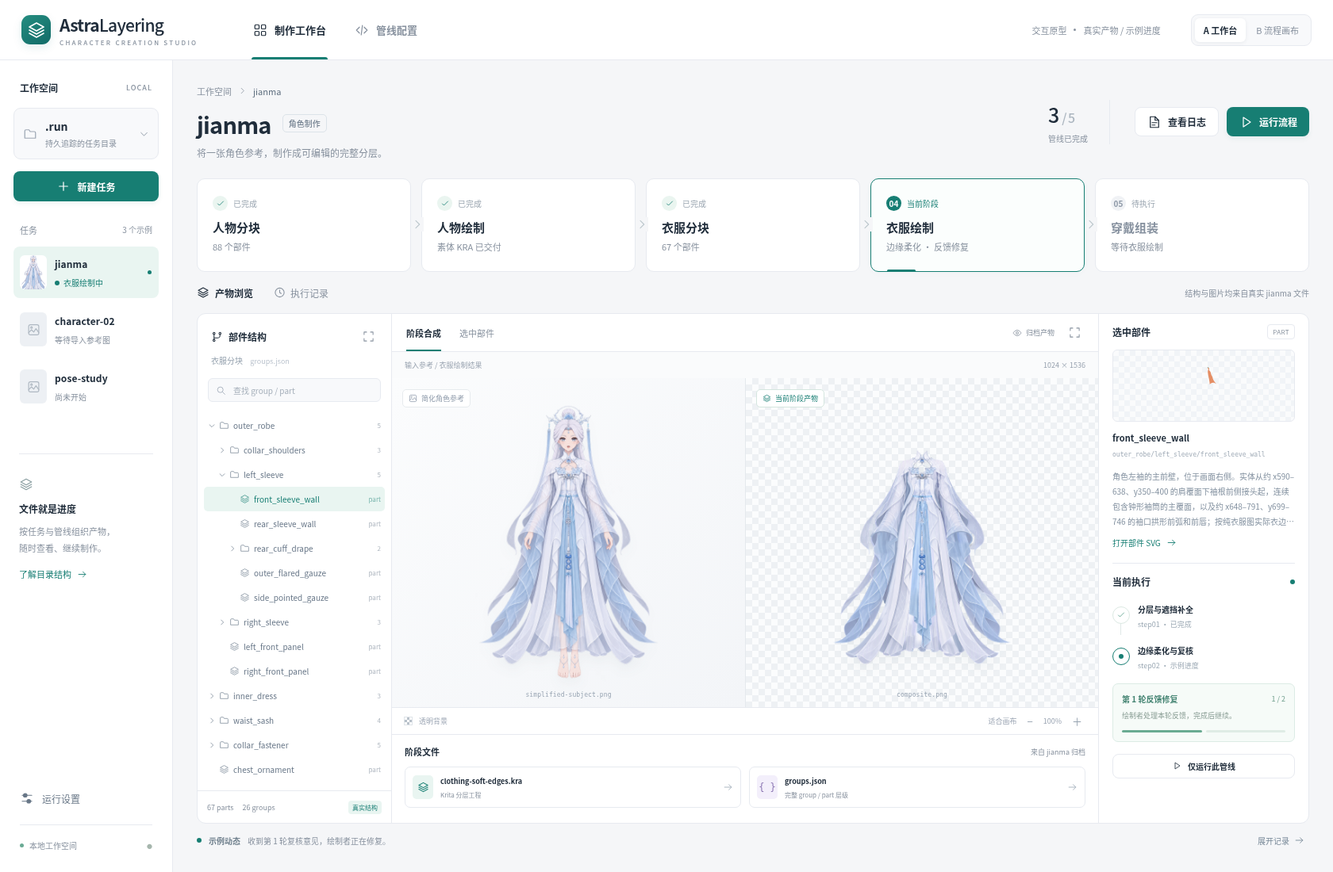
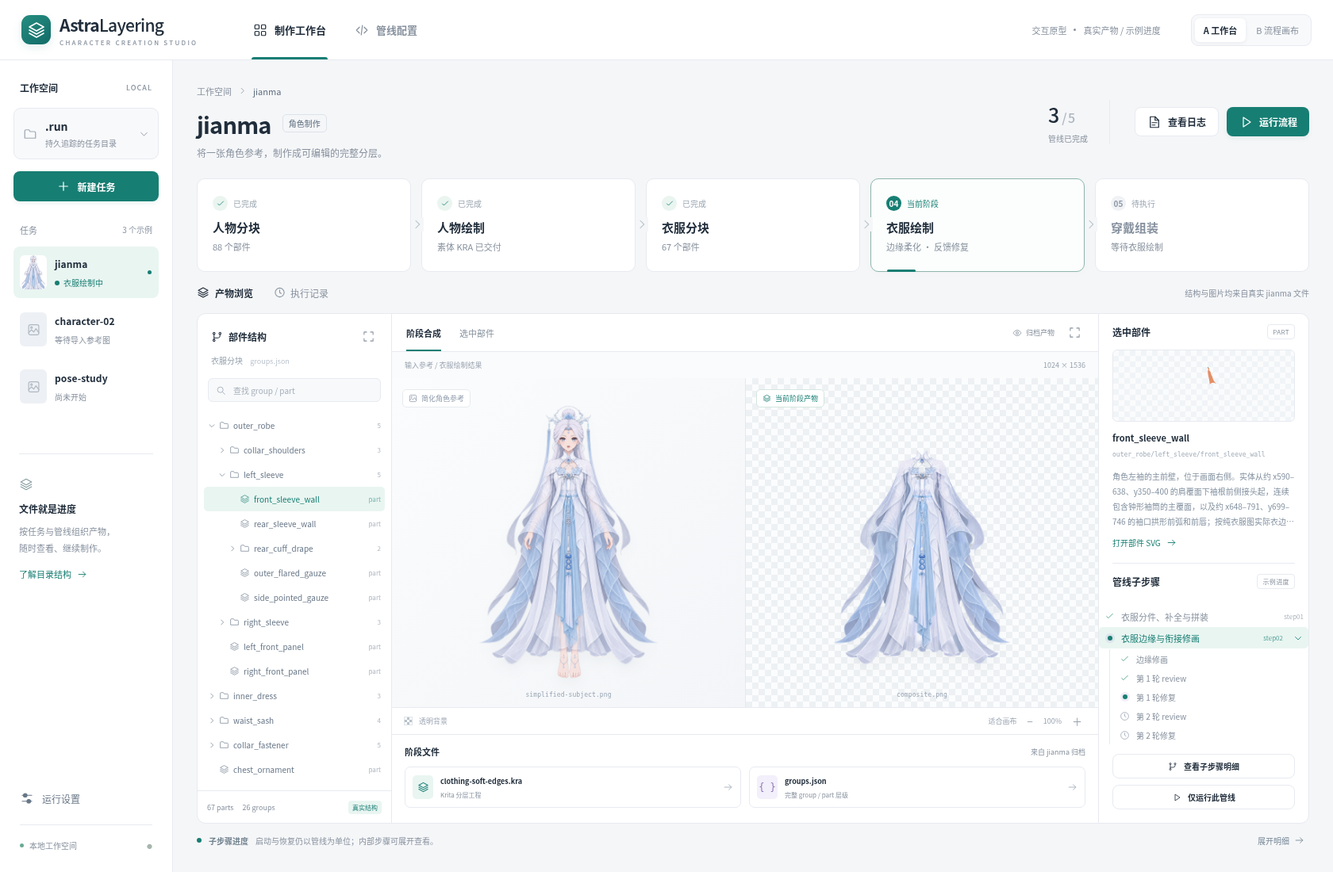
Expand pipeline progress into substeps and per-layer part views

Changed region(s): [[0.8357, 0.6491, 0.9595, 0.9273], [0.1548, 0.9582, 0.3095, 0.9891]]

diff --git a/web/app.js b/web/app.js
@@ -1,3 +1,5 @@
+import { groupPhases, pipelineSteps, groupLayers } from './progress.js';
+
 const icons = {
  layers:'<path d="m12 3 9 5-9 5-9-5 9-5Z"/><path d="m3 12 9 5 9-5M3 16l9 5 9-5"/>',
  grid:'<rect x="3" y="3" width="7" height="7" rx="1.5"/><rect x="14" y="3" width="7" height="7" rx="1.5"/><rect x="3" y="14" width="7" height="7" rx="1.5"/><rect x="14" y="14" width="7" height="7" rx="1.5"/>',
@@ -27,6 +29,8 @@ const data = await get('/api/demo');
 const state = {
  layout:new URLSearchParams(location.search).get('layout')||'workbench', page:new URLSearchParams(location.search).get('page')||'project',
  stage:3, group:'outer_robe/left_sleeve/front_sleeve_wall', expanded:new Set(['outer_robe','outer_robe/left_sleeve']),
+ showSteps:true, selectedStep:'step02', depth:0,
+ openSteps:new Set(['0:layers','1:step02','2:layers','3:step02']),
  preview:'composition', directory:localStorage.getItem('astra-demo-directory')||data.directory,
  ref:'worktree', file:'shared/tools/update_occlusion/description.md', diff:false, configFilter:'', uploaded:null,
 };
@@ -37,6 +41,11 @@ const stages = [
  {name:'衣服绘制',id:'clothing-raster-layering',short:'CLOTHING RASTER',result:'边缘柔化 · 反馈修复',status:'running',image:'/images/clothing.png',file:'clothing-raster-layering/step02/clothing-soft-edges.kra'},
  {name:'穿戴组装',id:'character-assembly',short:'ASSEMBLY',result:'等待衣服绘制',status:'pending',image:'/images/assembled.png',file:'character-assembly/step01/character-assembled.kra'},
 ];
+const requestedStage = Number(new URLSearchParams(location.search).get('stage') ?? 3);
+if (Number.isInteger(requestedStage) && requestedStage >= 0 && requestedStage < stages.length) {
+ state.stage = requestedStage;
+ state.selectedStep = requestedStage === 0 || requestedStage === 2 ? 'layers' : requestedStage === 4 ? 'step01' : 'step02';
+}
 const artifact = path => '/artifact/'+path.split('/').map(encodeURIComponent).join('/');
 const sourceTree = () => state.stage<2?data.character.groups:data.clothing.groups;
 function flat(nodes) { return nodes.flatMap(node=>[node,...flat(node.groups||[])]); }
@@ -84,22 +93,67 @@ function previewPane() {
  <div class="canvas-footer"><span><span class="checker-swatch"></span>透明背景</span><span>适合画布 <b>−</b><span>100%</span><b>＋</b></span></div>
  <div class="artifact-tray"><div class="tray-heading"><b>阶段文件</b><small>来自 jianma 归档</small></div><div class="file-cards"><a href="${artifact(stage.file)}" target="_blank"><span class="file-icon">${icon(stage.file.endsWith('.kra')?'layers':'code')}</span><span><b>${stage.file.split('/').at(-1)}</b><small>${stage.file.endsWith('.kra')?'Krita 分层工程':'分块合成预览'}</small></span>${icon('arrow')}</a><a href="${artifact(treePipeline()+'/groups.json')}" target="_blank"><span class="file-icon json">{ }</span><span><b>groups.json</b><small>完整 group / part 层级</small></span>${icon('arrow')}</a></div></div></section>`;
 }
+const statusNames = { done:'已完成', running:'进行中', pending:'待执行' };
+function statusMark(status) {
+ return `<span class="phase-mark ${status}" title="${statusNames[status]}" aria-label="${statusNames[status]}">${status==='done'?icon('check'):status==='running'?'<i></i>':icon('clock')}</span>`;
+}
+function stepRows(stageIndex, nodes=pipelineSteps[stageIndex], nested=false) {
+ return nodes.map(step=> {
+  const key=stageIndex+':'+step.id, open=state.openSteps.has(key);
+  return `<div class="phase-item ${nested?'nested':''}"><div class="phase-row ${step.status} ${state.stage===stageIndex&&state.selectedStep===step.id?'selected':''}">
+   <button class="phase-select" data-step="${stageIndex}:${step.id}">${statusMark(step.status)}<span>${esc(step.title)}</span>${step.id.startsWith('step')?`<small>${esc(step.id)}</small>`:''}</button>
+   ${step.children.length?`<button class="phase-toggle" data-step-toggle="${key}" aria-label="${open?'收起':'展开'}${esc(step.title)}" aria-expanded="${open}">${icon(open?'down':'chevron')}</button>`:''}</div>
+   ${open&&step.children.length?`<div class="phase-children">${stepRows(stageIndex,step.children,true)}</div>`:''}</div>`;
+ }).join('');
+}
+function selectedStep() {
+ const all=nodes=>nodes.flatMap(node=>[node,...all(node.children)]);
+ return all(pipelineSteps[state.stage]).find(step=>step.id===state.selectedStep)||pipelineSteps[state.stage][0];
+}
+function pipelineDetail() {
+ const stage=stages[state.stage], selected=selectedStep(), part=state.stage===0||state.stage===2;
+ const showLayers=part&&(selected.id==='layers'||groupPhases.some(([id])=>id===selected.id));
+ const layers=part?groupLayers(sourceTree()):[];
+ const depth=Math.min(state.depth,Math.max(0,layers.length-1));
+ const layer=layers[depth]||[];
+ return `<section class="pipeline-detail" aria-label="${stage.name}子步骤进度"><header class="detail-heading"><div>${icon('branch')}<h2>${stage.name}<span>/</span>${esc(selected.title)}</h2><span class="small-tag">示例进度</span></div><button class="button" data-action="single">${icon('play')}运行 / 恢复此管线</button></header>
+ ${showLayers?`<div class="layer-context"><p>本层轮廓复核齐备后去重，再补全、检查和拆分直属结构；整层完成后进入下一层。</p><small>这里的层数表示拆分树深度，不是遮挡高度。分组来自真实归档，执行状态为示例。</small></div>
+ <div class="depth-tabs" role="group" aria-label="拆分层数">${layers.map((nodes,i)=>`<button data-depth="${i}" class="${depth===i?'active':''}">第 ${i+1} 层<span>${nodes.length} 个节点</span></button>`).join('')}</div>
+ <div class="layer-table-scroll"><table class="layer-table"><thead><tr><th>本层 group / part</th>${groupPhases.map(([id,label])=>`<th class="${selected.id===id?'selected':''}">${label}</th>`).join('')}<th>产物</th></tr></thead><tbody>${layer.map(node=>`<tr><td><button data-progress-group="${esc(node.id)}">${icon(node.groups?.length?'folder':'layers')}<span><b>${esc(node.id.split('/').at(-1))}</b><small>${esc(node.id)}</small></span><em>${node.groups?.length?'group':'part'}</em></button></td>${groupPhases.map(([id])=>`<td class="${selected.id===id?'selected':''}">${id==='children'&&!node.groups?.length?'<span class="terminal-part" title="终止 part 不再拆分子组">终止 part</span>':statusMark('done')}</td>`).join('')}<td><a href="${artifact(treePipeline()+'/parts/'+node.id+'.svg')}" target="_blank">SVG ${icon('arrow')}</a></td></tr>`).join('')}</tbody></table></div>
+ <footer class="detail-footnote">${icon('info')}按层聚合展示进度，也可以点进具体部件查看产物。归档未保留逐步执行记录，此处没有推断历史耗时或完成比例。</footer>`:
+ `<div class="step-detail-body"><div class="step-detail-flow">${stepRows(state.stage)}</div><div class="step-explanation"><span class="eyebrow">${statusNames[selected.status]} · 示例</span><h3>${esc(selected.title)}</h3><p>${esc(selected.note||pipelineSteps[state.stage].find(step=>step.children.some(child=>child.id===selected.id))?.note||'此处展示管线内部进度。启动与恢复仍通过整条管线入口，由原调度器决定从哪里继续。')}</p>${!part&&state.stage!==4?'<div class="review-rule">step02 包含绘制、review 与修复。已完成绘制不等于整个 step02 完成。</div>':''}<a class="text-link" href="${artifact(stage.file)}" target="_blank">查看已归档的阶段产物 ${icon('arrow')}</a></div></div>`}</section>`;
+}
 function inspector() {
  const g=chosenGroup();
  return `<aside class="inspector"><div class="pane-title"><h3>选中部件</h3><span class="small-tag">${g.kind==='part'?'PART':'GROUP'}</span></div><div class="selected-part"><div class="selected-thumb"><img src="${artifact(groupFile())}" alt="选中 SVG"></div><b>${esc(g.id.split('/').at(-1))}</b><code>${esc(g.id)}</code><p>${esc((g.note||'').slice(0,130))}${g.note?.length>130?'…':''}</p><a class="text-link" href="${artifact(groupFile())}" target="_blank">打开部件 SVG ${icon('arrow')}</a></div>
- <div class="inspector-divider"></div><div class="pane-title"><h3>当前执行</h3><span class="live-dot"></span></div><div class="step-list"><div class="step done"><span>${icon('check')}</span><div><b>分层与遮挡补全</b><small>step01 · 已完成</small></div></div><div class="step active"><span><i></i></span><div><b>边缘柔化与复核</b><small>step02 · 示例进度</small></div></div></div><div class="review-box"><div><b>第 1 轮反馈修复</b><span>1 / 2</span></div><p>绘制者处理本轮反馈，完成后继续。</p><div class="review-dots"><span></span><span></span></div></div><button class="button full" data-action="single">${icon('play')}仅运行此管线</button>
+ <div class="inspector-divider"></div><div class="pane-title"><h3>管线子步骤</h3><span class="small-tag">示例进度</span></div><div class="inspector-progress">${stepRows(state.stage)}</div><button class="button full" data-action="step-details">${icon('branch')}查看子步骤明细</button><button class="button full" data-action="single">${icon('play')}仅运行此管线</button>
  </aside>`;
 }
 function workbench() {
- return `${pageHeading()}${stageStrip()}<div class="section-bar"><div><span class="section-active">${icon('layers')}产物浏览</span><span class="section-secondary">${icon('clock')}执行记录</span></div><span>结构与图片均来自真实 jianma 文件</span></div><div class="workbench-panels">${artifactTree()}${previewPane()}${inspector()}</div><div class="activity-footer"><span class="live-dot"></span><b>示例动态</b><span>收到第 1 轮复核意见，绘制者正在修复。</span><button data-action="logs">展开记录 ${icon('arrow')}</button></div>`;
+ return `${pageHeading()}${stageStrip()}<div class="section-bar"><div><span class="section-active">${icon('layers')}产物浏览</span><span class="section-secondary">${icon('clock')}执行记录</span></div><span>结构与图片均来自真实 jianma 文件</span></div><div class="workbench-panels">${artifactTree()}${previewPane()}${inspector()}</div><div class="activity-footer"><span class="live-dot"></span><b>子步骤进度</b><span>启动与恢复仍以管线为单位；内部步骤可展开查看。</span><button data-action="step-details">展开明细 ${icon('arrow')}</button></div>${pipelineDetail()}`;
 }
 function graphCard(i, cls) {
  const s=stages[i];
- return `<article class="graph-node ${s.status} ${cls} ${state.stage===i?'selected':''}" data-stage="${i}"><span class="port in"></span><span class="port out"></span><div class="node-heading"><span class="node-number">0${i+1}</span><div><h3>${s.name}</h3><small>${s.short}</small></div>${s.status==='done'?icon('check','node-check'):s.status==='running'?'<span class="live-dot"></span>':icon('lock','node-lock')}</div><div class="node-art checker"><img src="${s.image}" alt="${s.name}阶段产物"></div><div class="node-meta"><span>${s.status==='pending'?'已归档示例':s.result}</span><small>${s.status==='running'?'STEP 02':''}</small></div><div class="node-footer"><span class="${s.status}">${s.status==='done'?'● 已完成':s.status==='running'?'● 正在修复':'○ 等待上游'}</span><button data-open-stage="${i}">${s.status==='pending'?'查看示例':'查看产物'} ${icon('arrow')}</button></div></article>`;
+ return `<article class="graph-node ${s.status} ${cls} ${state.stage===i?'selected':''}" data-stage="${i}" style="--pipeline-index:${i}"><span class="port in"></span><span class="port out"></span><div class="node-heading"><span class="node-number">0${i+1}</span><div><h3>${s.name}</h3><small>${s.short}</small></div>${s.status==='done'?icon('check','node-check'):s.status==='running'?'<span class="live-dot"></span>':icon('lock','node-lock')}</div><div class="node-art checker"><img src="${s.image}" alt="${s.name}阶段产物"></div><div class="node-meta"><span>${s.status==='pending'?'已归档示例':s.result}</span><small>${s.status==='running'?'STEP 02':''}</small></div>${state.showSteps?`<div class="node-phases">${stepRows(i)}</div>`:''}<div class="node-footer"><span class="${s.status}">${s.status==='done'?'● 已完成':s.status==='running'?'● 正在修复':'○ 等待上游'}</span><button data-open-stage="${i}">${s.status==='pending'?'查看示例':'查看产物'} ${icon('arrow')}</button></div></article>`;
+}
+function expandedGraph() {
+ return `${pageHeading()}<div class="graph-toolbar"><div><b>${icon('branch')}管线与内部步骤</b><span class="small-tag">启动 / 恢复以管线为单位</span></div><div><div class="graph-legend"><span><i class="green"></i>已完成</span><span><i class="purple"></i>进行中</span><span><i></i>等待</span></div><button class="button graph-disclosure" data-action="toggle-steps" aria-expanded="true">${icon('layers')}收起子步骤</button></div></div>
+ <div class="graph-canvas expanded-graph"><div class="graph-world"><svg class="connectors" viewBox="0 0 1360 738" preserveAspectRatio="none"><defs><marker id="detail-arrow" markerWidth="6" markerHeight="6" refX="5" refY="3" orient="auto"><path d="m0 0 6 3-6 3" fill="none" stroke="#719f98"/></marker></defs>
+ <path class="done" marker-end="url(#detail-arrow)" d="M52 91 V106 H8 V202 H20"/>
+ <path class="done" marker-end="url(#detail-arrow)" d="M266 330 H284"/>
+ <path class="done" marker-end="url(#detail-arrow)" d="M144 164 V129 H672 V162"/>
+ <path class="done" marker-end="url(#detail-arrow)" d="M794 330 H812"/>
+ <path class="active" marker-end="url(#detail-arrow)" d="M1058 330 H1076"/>
+ <path class="waiting" marker-end="url(#detail-arrow)" d="M408 674 V709 H1200 V676"/>
+ <text x="371" y="118">简化穿衣角色参考</text><text x="736" y="701">人物素体 KRA → 穿戴组装</text>
+ </svg><div class="expanded-input">${icon('image')}<div><b>输入角色图</b><small>original → standard</small></div><img src="/images/original.jpg" alt="原始角色参考"></div>
+ <div class="expanded-graph-hint">${icon('info')}展开节点看子步骤；点击步骤查看下方明细。</div>
+ ${stages.map((_,i)=>graphCard(i,['character-part','character-raster','clothing-part','clothing-raster','assembly'][i])).join('')}</div></div>${pipelineDetail()}`;
 }
 function graph() {
+ if(state.showSteps)return expandedGraph();
  return `${pageHeading()}<div class="graph-toolbar"><div><b>${icon('branch')}管线与产物依赖</b><span class="small-tag">整体顺序执行</span></div><div class="graph-legend"><span><i class="green"></i>已完成</span><span><i class="purple"></i>进行中</span><span><i></i>等待</span></div></div>
- <div class="graph-canvas"><div class="graph-world"><svg class="connectors" viewBox="0 0 1360 704" preserveAspectRatio="none"><defs><marker id="arrow-green" markerWidth="7" markerHeight="7" refX="6" refY="3.5" orient="auto"><path d="m0 0 7 3.5L0 7" fill="#59b6a7"/></marker></defs>
+ <button class="button graph-disclosure compact-disclosure" data-action="toggle-steps" aria-expanded="false">${icon('layers')}展开子步骤</button><div class="graph-canvas"><div class="graph-world"><svg class="connectors" viewBox="0 0 1360 704" preserveAspectRatio="none"><defs><marker id="arrow-green" markerWidth="7" markerHeight="7" refX="6" refY="3.5" orient="auto"><path d="m0 0 7 3.5L0 7" fill="#59b6a7"/></marker></defs>
  <path class="done" d="M187 220 V306"/><path class="done" d="M309 430 H346 V185 Q346 174 357 174 H411"/><path class="done" d="M309 430 H411"/><path class="done" d="M655 430 H717"/><path class="waiting" d="M655 174 H976 Q999 174 999 197 V287 H1048"/><path class="active" d="M961 430 H1016 Q1029 430 1029 417 V356 H1048"/>
  <text x="349" y="278">素体参考</text><text x="329" y="452">衣装参考</text><text x="686" y="413">parts</text><text x="823" y="162">人物 KRA</text><text x="991" y="478">衣服 KRA</text></svg>
  <div class="reference-node"><div><span class="input-tag">INPUT</span><h3>角色参考</h3><p>一张图，开始制作。</p><span>${icon('image')}original.jpg</span></div><img src="/images/original.jpg" alt="角色原始参考"></div>
@@ -187,11 +241,21 @@ function showDirectory() {
 function showHistory() {
  const dialog=document.querySelector('#directory-dialog');dialog.innerHTML=`<div class="modal-heading"><div><h2>提交历史</h2><p>选择一次提交，浏览当时的管线配置。</p></div><button class="icon-button" data-close>${icon('close')}</button></div><div class="commit-list">${(versions?.commits||[]).map((c,i)=>`<button data-commit="${c.sha}"><span class="commit-node">${icon('branch')}</span><div><b>${esc(c.title)}</b><small>${c.short}${i===0?' · 当前分支最新提交':''}</small></div>${icon('chevron')}</button>`).join('')}</div>`;dialog.showModal();dialog.querySelector('[data-close]').onclick=()=>dialog.close();dialog.querySelectorAll('[data-commit]').forEach(b=>b.onclick=async()=>{state.ref=b.dataset.commit;dialog.close();await loadConfig();render();});
 }
+function selectStage(index) {
+ if(state.stage===index)return;
+ state.stage=index; state.depth=0;
+ state.selectedStep=index===0||index===2?'layers':index===4?'step01':'step02';
+ state.group=sourceTree()[0].id;state.expanded=new Set([state.group]);
+}
 function bind() {
  document.querySelectorAll('[data-page]').forEach(b=>b.onclick=async()=>{state.page=b.dataset.page;if(state.page==='config')await loadConfig();render();});
  document.querySelectorAll('[data-layout]').forEach(b=>b.onclick=()=>{state.layout=b.dataset.layout;state.page='project';render();});
- document.querySelectorAll('[data-stage]').forEach(b=>b.onclick=()=>{state.stage=Number(b.dataset.stage);state.group=sourceTree()[0].id;state.expanded=new Set([state.group]);render();});
- document.querySelectorAll('[data-open-stage]').forEach(b=>b.onclick=e=>{e.stopPropagation();state.stage=Number(b.dataset.openStage);state.layout='workbench';state.group=sourceTree()[0].id;state.expanded=new Set([state.group]);render();});
+ document.querySelectorAll('[data-stage]').forEach(b=>b.onclick=()=>{selectStage(Number(b.dataset.stage));render();});
+ document.querySelectorAll('[data-open-stage]').forEach(b=>b.onclick=e=>{e.stopPropagation();selectStage(Number(b.dataset.openStage));state.layout='workbench';render();});
+ document.querySelectorAll('[data-step]').forEach(b=>b.onclick=e=>{e.stopPropagation();const [stage,step]=b.dataset.step.split(':');selectStage(Number(stage));state.selectedStep=step;render();});
+ document.querySelectorAll('[data-step-toggle]').forEach(b=>b.onclick=e=>{e.stopPropagation();const key=b.dataset.stepToggle;state.openSteps.has(key)?state.openSteps.delete(key):state.openSteps.add(key);render();});
+ document.querySelectorAll('[data-depth]').forEach(b=>b.onclick=()=>{state.depth=Number(b.dataset.depth);render();});
+ document.querySelectorAll('[data-progress-group]').forEach(b=>b.onclick=()=>{state.group=b.dataset.progressGroup;state.expanded=new Set(state.group.split('/').map((_,i)=>state.group.split('/').slice(0,i+1).join('/')));state.preview='part';state.layout='workbench';render();window.scrollTo({top:0,behavior:'smooth'});});
  document.querySelectorAll('[data-preview]').forEach(b=>b.onclick=()=>{state.preview=b.dataset.preview;render();});
  document.querySelectorAll('[data-expand]').forEach(b=>b.onclick=()=>{const id=b.dataset.expand;state.expanded.has(id)?state.expanded.delete(id):state.expanded.add(id);render();});
  document.querySelectorAll('[data-group]').forEach(b=>b.onclick=()=>{state.group=b.dataset.group;state.preview='part';render();});
@@ -200,6 +264,8 @@ function bind() {
   const action=b.dataset.action;
   if(action==='new'||action==='run')showNew();
   else if(action==='single')showNew(true);
+  else if(action==='toggle-steps'){state.showSteps=!state.showSteps;render();}
+  else if(action==='step-details'){document.querySelector('.pipeline-detail')?.scrollIntoView({behavior:'smooth',block:'start'});}
   else if(action==='directory')showDirectory();
   else if(action==='history')showHistory();
   else if(action==='show-tree'){state.layout='workbench';render();}

diff --git a/web/styles.css b/web/styles.css
@@ -11,3 +11,66 @@ dialog{border:1px solid #e1e5ec;box-shadow:0 25px 110px #142a4366;border-radius:
 .single-art{min-height:0;overflow:hidden}
 .code-body,.markdown-body,.config-tree-scroll{min-height:0}
 .tree-row[hidden]{display:none}
+
+/* A pipeline remains the execution unit; these disclosures only inspect its progress. */
+.phase-row{display:flex;align-items:center;border-radius:5px;min-height:27px;color:var(--muted)}
+.phase-row.selected{background:var(--accent-soft);color:var(--accent)}
+.phase-select{display:flex;align-items:center;gap:7px;min-width:0;flex:1;text-align:left;padding:5px 6px;font-size:11px}
+.phase-select>span:not(.phase-mark){flex:1;min-width:0;line-height:1.5}
+.phase-select>small{font-size:8px;opacity:.7}
+.phase-toggle{display:grid;place-items:center;width:26px;height:27px;flex-shrink:0;border-radius:4px}
+.phase-toggle:hover{background:#809b9620}.phase-toggle svg{height:12px;width:12px}
+.phase-mark{display:inline-flex;align-items:center;justify-content:center;width:15px;height:15px;flex-shrink:0}
+.phase-mark svg{width:13px;height:13px}.phase-mark.done{color:#479e87}
+.phase-mark.pending{color:#a2acb9}.phase-mark.running{color:var(--accent)}
+.phase-mark.running i{display:block;height:6px;width:6px;border-radius:50%;background:currentColor;box-shadow:0 0 0 3px #9680c725}
+.phase-children{margin:1px 0 5px 13px;padding-left:5px;border-left:1px solid var(--line)}
+.phase-item.nested .phase-select{font-size:10px;padding-top:3px;padding-bottom:3px}
+.phase-item.nested .phase-row{min-height:24px}.phase-item.nested .phase-toggle{height:24px}
+.inspector{overflow:auto}.inspector-progress{margin:8px 0 12px}.inspector>.button.full{flex-shrink:0;margin-bottom:8px}
+.pipeline-detail{margin:22px 0 30px;border:1px solid var(--line);border-radius:10px;background:var(--surface);overflow:hidden;scroll-margin-top:20px}
+.detail-heading{padding:17px 21px;border-bottom:1px solid var(--line);display:flex;align-items:center;justify-content:space-between;gap:16px}
+.detail-heading>div{display:flex;align-items:center;gap:9px;min-width:0}.detail-heading>div>svg{width:16px;color:var(--accent)}
+.detail-heading h2{font-size:14px;font-weight:550;display:flex;gap:10px;align-items:center}.detail-heading h2>span{opacity:.25}
+.detail-heading>.button{font-size:10px;height:31px}.detail-heading .small-tag{font-size:8px;white-space:nowrap}
+.layer-context{padding:16px 21px 8px;font-size:11px;color:var(--muted);line-height:1.7}
+.layer-context small{display:block;font-size:10px;opacity:.8;margin-top:4px}
+.depth-tabs{display:flex;gap:7px;padding:12px 21px 17px;overflow:auto}
+.depth-tabs button{border:1px solid var(--line);padding:9px 13px;border-radius:6px;font-size:11px;white-space:nowrap;color:var(--muted)}
+.depth-tabs button span{font-size:9px;margin-left:10px;opacity:.7}.depth-tabs button.active{background:var(--accent-soft);border-color:var(--accent);color:var(--accent)}
+.layer-table-scroll{overflow:auto;max-height:350px}.layer-table{border-collapse:collapse;width:100%;text-align:left;table-layout:fixed}
+.layer-table th{font-size:10px;font-weight:500;color:var(--muted);padding:12px 8px;background:var(--bg);border-bottom:1px solid var(--line);text-align:center;position:sticky;top:0;z-index:1}
+.layer-table th:first-child{text-align:left;width:33%;padding-left:22px}.layer-table th:last-child{width:70px}
+.layer-table td{padding:10px 8px;text-align:center;border-bottom:1px solid var(--line);font-size:10px}
+.layer-table td:first-child{text-align:left;padding-left:21px}.layer-table td.selected,.layer-table th.selected{background:var(--accent-soft)}
+.layer-table td>button{display:flex;align-items:center;gap:9px;text-align:left;width:100%;padding:0;min-width:0}
+.layer-table td>button>svg{width:14px;height:14px;color:var(--muted);flex-shrink:0}.layer-table td>button span{min-width:0;flex:1}
+.layer-table b{font-size:11px;font-weight:500;display:block;overflow:hidden;text-overflow:ellipsis;white-space:nowrap}
+.layer-table small{font-size:9px;color:var(--muted);display:block;overflow:hidden;text-overflow:ellipsis;white-space:nowrap;margin-top:5px}
+.layer-table em{font-style:normal;font-size:8px;color:var(--muted);border:1px solid var(--line);padding:2px 5px;border-radius:3px}
+.layer-table a{display:inline-flex;gap:4px;align-items:center;color:var(--accent);font-size:10px}.layer-table a svg{height:11px;width:11px}
+.terminal-part{font-size:9px;color:var(--muted)}.detail-footnote{padding:13px 21px;font-size:10px;color:var(--muted);display:flex;align-items:center;gap:7px;line-height:1.7}.detail-footnote svg{height:13px;width:13px;flex-shrink:0}
+.step-detail-body{display:grid;grid-template-columns:minmax(240px,32%) 1fr;min-height:240px}.step-detail-flow{padding:17px 20px;border-right:1px solid var(--line)}
+.step-explanation{padding:28px 30px}.step-explanation h3{font-size:17px;font-weight:550;margin-bottom:13px}.step-explanation p{font-size:12px;line-height:1.9;color:var(--muted);max-width:720px}
+.step-explanation>.text-link{margin-top:22px;font-size:11px;display:inline-flex;align-items:center;gap:8px}.step-explanation .eyebrow{color:var(--accent);font-size:9px;letter-spacing:.4px}
+.review-rule{font-size:11px;line-height:1.8;color:var(--accent);padding:12px 15px;background:var(--accent-soft);border-radius:6px;margin-top:20px;max-width:700px}
+.graph-disclosure{font-size:10px;height:29px;padding:0 11px;background:transparent!important;border-color:#42506a!important;color:#b0bfd1!important}.graph-disclosure svg{width:13px}
+.compact-disclosure{margin:0 0 12px auto;display:flex}
+.graph-legend{display:flex;align-items:center}
+.expanded-graph .graph-world{height:738px}.expanded-graph .connectors{height:738px}
+.expanded-graph .graph-node{left:calc(22px + var(--pipeline-index) * 264px);top:164px;height:510px;display:flex;flex-direction:column;border-style:solid}
+.expanded-graph .node-art,.expanded-graph .assembly .node-art{height:66px;flex-shrink:0}
+.expanded-graph .node-art img,.expanded-graph .assembly .node-art img{height:63px}
+.expanded-graph .node-meta{font-size:9px;padding-top:10px;padding-bottom:8px;flex-shrink:0}
+.expanded-graph .node-heading{height:54px;flex-shrink:0}.expanded-graph .node-phases{padding:0 7px;overflow:auto;flex:1;scrollbar-width:thin;scrollbar-color:#445367 transparent}
+.expanded-graph .node-footer{padding:11px 12px 13px;border-top:1px solid #3c4a6066;margin-top:7px;flex-shrink:0}
+.expanded-graph .port,.expanded-graph .assembly:after{display:none}
+.expanded-input{position:absolute;left:22px;top:19px;width:244px;height:72px;border:1px solid #3c4a60;border-radius:9px;background:#222d3d;display:flex;align-items:center;gap:10px;padding:12px}
+.expanded-input>svg{color:#8aaba7;width:18px}.expanded-input b{font-size:12px;font-weight:500}.expanded-input small{font-size:9px;color:#8294ad;display:block;margin-top:6px}.expanded-input img{width:39px;height:59px;object-fit:contain;margin-left:auto}
+.expanded-graph-hint{position:absolute;top:47px;right:38px;display:flex;gap:7px;align-items:center;font-size:10px;color:#8597af}.expanded-graph-hint svg{width:14px}
+.dark .phase-row{color:#b2bed0}.dark .phase-row.pending{color:#7b8ba3}.dark .phase-row.selected{background:#a78be920;color:#d4bfff}
+.dark .phase-mark.done{color:#79bca6}.dark .phase-mark.running{color:#c5a8ff}.dark .phase-mark.pending{color:#697993}
+.dark .phase-children{border-color:#49566b}.dark .phase-select{font-size:10px}.dark .phase-item.nested .phase-select{font-size:9px}
+.dark .pipeline-detail{background:#202b3b;border-color:#3c4a60}.dark .detail-heading{border-color:#3c4a60}.dark .detail-heading .button{background:#273348;border-color:#47546b;color:#bbc8db}
+.dark .layer-table th{background:#263245}.dark .layer-table td,.dark .layer-table th,.dark .step-detail-flow{border-color:#3c4a60}
+.dark .depth-tabs button{border-color:#445269}.dark .depth-tabs button.active{border-color:#9c85d4}

diff --git a/web/progress.js b/web/progress.js
@@ -1,0 +1,50 @@
+// Display-only definitions, matched to the existing preparation, part and raster runners.
+// These sample statuses do not read or modify a live run, or schedule individual steps.
+export const groupPhases = [
+  ['outline', '轮廓绘制'], ['review', '轮廓复核'], ['reduction', '同层去重'],
+  ['completion', '遮挡补全'], ['completionCheck', '补全检查'], ['children', '直属结构拆分'],
+];
+
+const step = (id, title, status, children = [], note = '') => ({ id, title, status, children, note });
+const partSteps = clothing => [
+  step('preparation', '准备参考', 'done', clothing
+    ? [step('clothing', '提取纯衣服参考', 'done')]
+    : [step('standard', '标准参考 · 按需调整姿态', 'done'),
+      step('simplified', '判断并简化角色', 'done'), step('base', '生成素体参考', 'done')]),
+  step('initial', '首次分组', 'done'),
+  step('layers', '逐层拆分', 'done', groupPhases.map(([id, title]) => step(id, title, 'done')),
+    '每层先完成轮廓和复核，再同层去重；补全、检查和直属结构拆分完成后进入下一层。终止 part 不再拆子组。'),
+  step('merge', '合成分块预览', 'done'),
+  step('occlusion', '遮挡深度规划', 'done'),
+];
+
+const rasterSteps = clothing => [
+  step('step01', clothing ? '衣服分件、补全与拼装' : '分层、补全与 Krita 交付', 'done', [],
+    '按部件生成控制图、提取与补全，再对齐、拼装和逐层验收。绘制过程由同一 agent 完成。'),
+  step('step02', clothing ? '衣服边缘与衔接修画' : '边缘柔化与去锯齿', clothing ? 'running' : 'done', [
+    step('draw', '边缘修画', 'done'),
+    step('review-01', '第 1 轮 review', 'done'),
+    step('repair-01', '第 1 轮修复', clothing ? 'running' : 'done'),
+    step('review-02', '第 2 轮 review', clothing ? 'pending' : 'done'),
+    step('repair-02', '第 2 轮修复', clothing ? 'pending' : 'done'),
+  ], 'review 通过可提前结束；需要修复时交回绘制者。最多两轮，第二轮修复后不再 review。全部结束后 step02 才完成。'),
+  ...(clothing ? [] : [step('step03', '去除连体服、补全身体底层', 'done')]),
+];
+
+export const pipelineSteps = [
+  partSteps(false), rasterSteps(false), partSteps(true), rasterSteps(true),
+  [step('step01', '人物与衣服 KRA 组装', 'pending', [],
+    '同一 agent 调整穿戴关系、必要遮罩与局部笔触，重开验收并导出 KRA、合成 PNG 和报告。')],
+];
+
+export function groupLayers(groups) {
+  const layers = [];
+  function visit(nodes, depth) {
+    for (const node of nodes) {
+      (layers[depth] ??= []).push(node);
+      visit(node.groups || [], depth + 1);
+    }
+  }
+  visit(groups, 0);
+  return layers;
+}

diff --git a/web/server.ts b/web/server.ts
@@ -64,6 +64,7 @@ async function api(path: string, params: URLSearchParams) {
 const files: Record<string, [string, string]> = {
   '/': ['web/index.html', 'text/html; charset=utf-8'],
   '/app.js': ['web/app.js', 'text/javascript; charset=utf-8'],
+  '/progress.js': ['web/progress.js', 'text/javascript; charset=utf-8'],
   '/styles.css': ['web/styles.css', 'text/css; charset=utf-8'],
   '/images/reference.png': ['demos/jianma/part-layering/references/simplified-subject.png', 'image/png'],
   '/images/original.jpg': ['demos/jianma/input/original.jpg', 'image/jpeg'],

diff --git a/web/README.md b/web/README.md
@@ -14,7 +14,11 @@ pnpm web
 已连接真实内容：
 
 - `demos/jianma` 的人物和衣服 `groups.json`，按实际 group / part 层级展开。选择节点可查看对应 SVG，阶段卡提供归档图片与 KRA 文件。
+- 流程画布可展开每条管线的内部步骤。人物和衣服 part 展示参考准备、首次分组、逐层拆分、合成预览和深度规划；逐层拆分继续展示轮廓、复核、同层去重、补全、检查和直属结构拆分。下方可按真实树深度查看每个 group / part 并打开其 SVG。
+- raster 展示 step01、step02，以及 step02 内的绘制、两轮 review / 修复；人物另有 step03，组装只有一个 step01。review 通过可以提前结束；第二轮修复后不再 review。这里只增加进度预览，启动／恢复仍以整条管线为单位。
 - 所选 Git 版本的提示词 Markdown、工具 description 与 schema；支持本地工作区、已有分支／远端引用和提交历史，并可比较版本差异。读取历史版本时兼容 skill 目录与旧 `workflow-next` 目录。只读，不执行 checkout、fetch 或修改配置。
+
+`web/progress.js` 的步骤定义对照现有调度器组织，不参与调度。jianma 归档没有保留逐步执行记录，所以这些子步骤的状态也明确标为示例，不从产物数量推断进度。后续接入真实任务时，按现有 part 的阶段记录、raster 的 `.running` / `.completed` 及 review / repair 报告读取状态；不另造恢复机制。
 
 确认过的正式版范围：五条管线分别运行；新任务只需一张输入图；一个持久保存的运行根目录，自动追踪其中各任务；仓库默认 `<仓库>/.run`，独立安装的 skill 默认 `<skill 上一级>/.run`；运行数据受 Git 忽略。
 
@@ -24,5 +28,8 @@ pnpm web
 - [B：管线与产物依赖画布](demo-screenshots/02-flow.png)
 - [独立配置浏览页](demo-screenshots/03-config.png)
 - [新建任务](demo-screenshots/04-new-task.png)
+- [展开五条管线的子步骤](demo-screenshots/05-expanded-flow.png)
+- [part 的拆分层与 group 明细](demo-screenshots/06-part-progress.png)
+- [raster 的 review / 修复进度](demo-screenshots/07-raster-progress.png)
 
 验证了实际页面截图、图片加载、SVG 选择、目录选择持久化、Git 分支／提交切换、真实文件差异与只读边界；没有调用模型。
